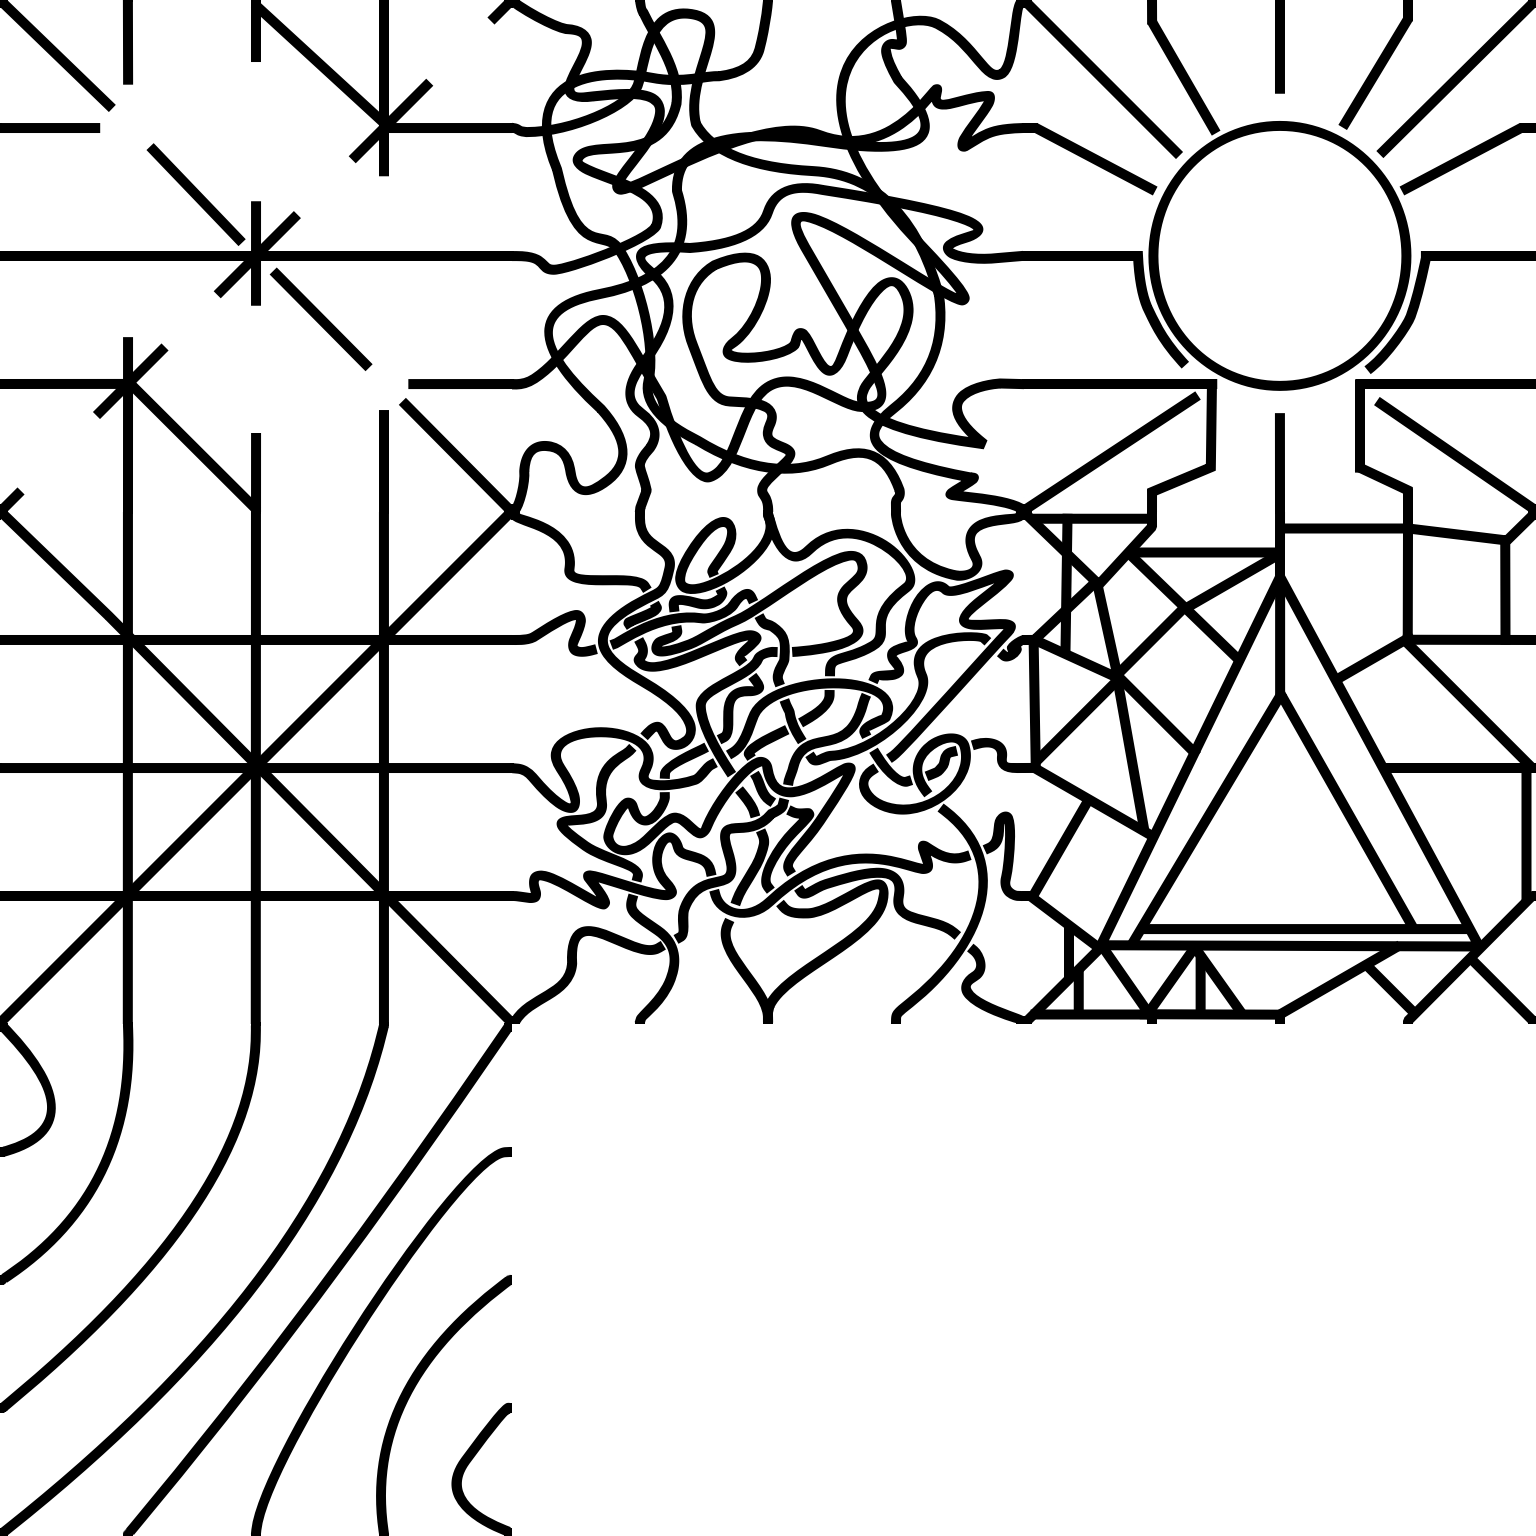
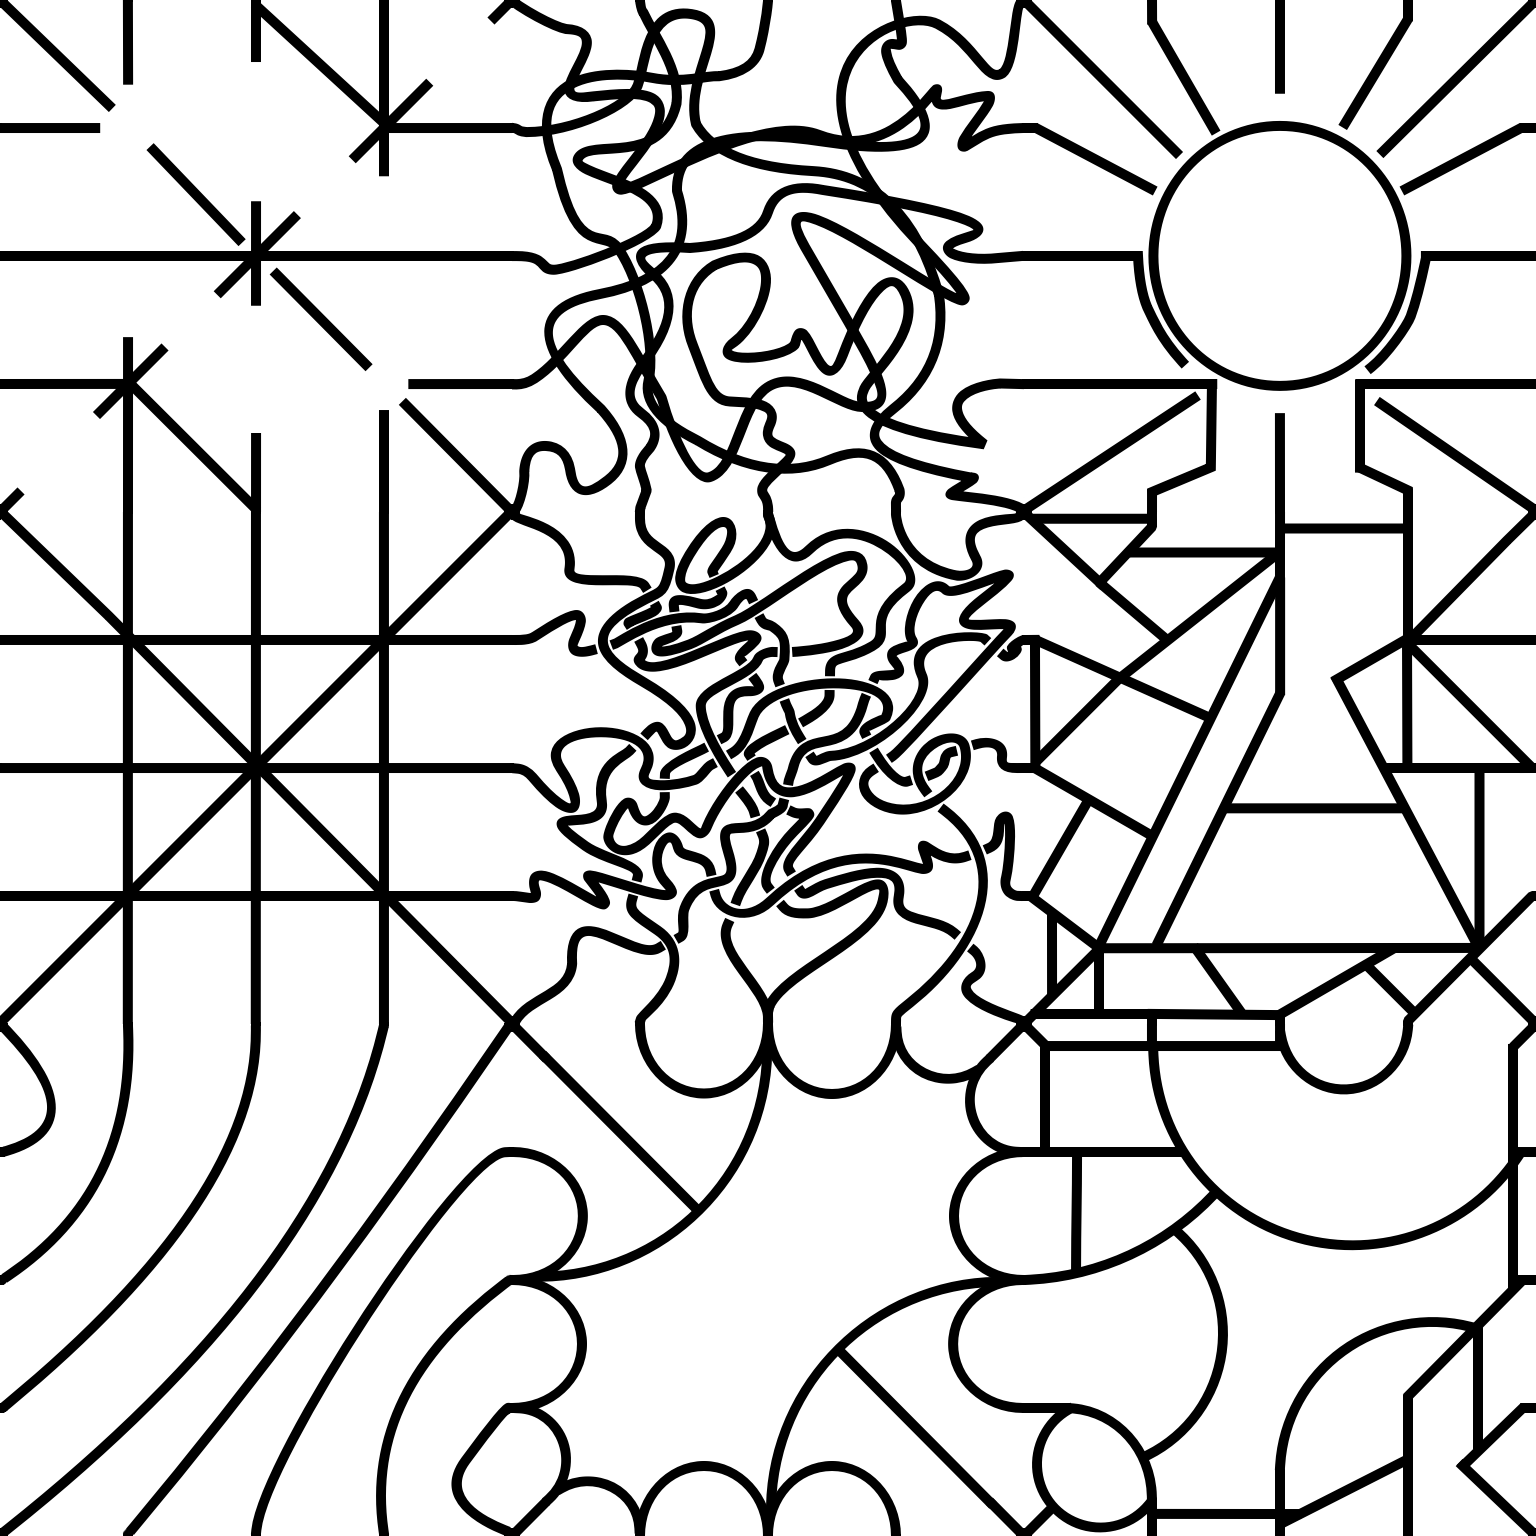
Added prod/dev tileset src switching, title disappearing on click, tiles reload on double click
Introduced dynamic tileset image source selection based on environment, updated tileset and excluded some tiles, added tile reload on double click and remove title after first click.

diff --git a/src/app/app.component.ts b/src/app/app.component.ts
@@ -1,10 +1,10 @@
-import { Component } from '@angular/core';
+import { Component, HostListener } from '@angular/core';
 import { TileComponent } from './tile-component/tile-component.component';
 import { utilConstants, TilePxSize } from './constants/constants.component';
-import { NgFor } from '@angular/common';
+import { NgFor, NgIf } from '@angular/common';
 @Component({
   selector: 'app-root',
-  imports: [TileComponent, NgFor],
+  imports: [TileComponent, NgFor, NgIf],
   templateUrl: './app.component.html',
   styleUrl: './app.component.scss',
 })
@@ -15,7 +15,7 @@ export class AppComponent {
   util = new utilConstants()
   tileGen:number[] = []
   constructor(){
-    this.tileGen = this.constructTiles()
+    this.constructTiles()
   }
   getTileHeight():number{
     return Math.floor(this.util.getScreenSizePercentage(100, false)/this.adjustedPxSize)+1;
@@ -25,11 +25,36 @@ export class AppComponent {
     return Math.floor(this.util.getScreenSizePercentage(100)/this.adjustedPxSize)+1;
   }
 
-  constructTiles():Array<number>{
+  constructTiles(){
     let newTiles:Array<number> = []
     for (let i = 0; i < this.getTileHeight()*this.getTileWidth(); i++) {
         newTiles.push(0)      
     }
-    return newTiles;
+    this.tileGen = newTiles;
+  }
+
+  titleDisplayed = true
+  lastClicked:number = -1
+  doubleClickTime = 500
+  showingTiles = true
+  @HostListener('document:mousedown', ['$event'])
+  handleClickEvent(e: Event) {
+    e.preventDefault();
+    if(this.titleDisplayed){
+      this.titleDisplayed = false;
+      return;
+    }
+    if(this.lastClicked + this.doubleClickTime > Date.now()){
+      this.constructTiles();
+      this.reloadTiles();
+      this.lastClicked = -1
+    } else {
+      this.lastClicked = Date.now();
+    }
+  }
+
+  reloadTiles(){
+    this.showingTiles = false
+    setTimeout(() => {this.showingTiles = true})
   }
 }

diff --git a/src/app/constants/constants.component.ts b/src/app/constants/constants.component.ts
@@ -1,18 +1,19 @@
 import { DOCUMENT } from '@angular/common';
 import { inject } from '@angular/core';
 
+export const TilesetSrc = process.env['NODE_ENV']==="production" ? "/TilesetViewer/DoodleTilemap.png" : "/DoodleTilemap.png"
 export const TilePxSize = 512;
 export const TilesetRows = 3;
 export const TilesetCols = 3;
 export const TilesetPxWidth = TilePxSize * TilesetRows;
 export const TilesetPxHeight = TilePxSize * TilesetCols;
-export const TilesetOptions = [...Array(7).keys()]; //From 0-(N-1)
+export const TilesetOptions = [...Array(9).keys()]; //From 0-(N-1)
 const directions = ["", "right", "back", "left"]
 
 export class utilConstants {
   private readonly document = inject(DOCUMENT);
   private readonly window = this.document.defaultView;
-  private ExcludedTiles:number[] = []
+  private ExcludedTiles:number[] = [1,4]
   isMobile(): boolean {
     return /Android|webOS|iPhone|iPad|iPod|BlackBerry|IEMobile|Opera Mini/i.test(
       navigator.userAgent

diff --git a/src/app/tile-component/tile-component.component.ts b/src/app/tile-component/tile-component.component.ts
@@ -1,5 +1,5 @@
 import { Component, Input } from '@angular/core';
-import { TilesetRows, TilePxSize, TilesetPxHeight, TilesetPxWidth, TilesetOptions, utilConstants } from '../constants/constants.component';
+import { TilesetSrc, TilesetRows, TilePxSize, TilesetPxHeight, TilesetPxWidth, TilesetOptions, utilConstants } from '../constants/constants.component';
 @Component({
   selector: 'tile-component',
   imports: [],
@@ -8,9 +8,11 @@ import { TilesetRows, TilePxSize, TilesetPxHeight, TilesetPxWidth, TilesetOption
 })
 export class TileComponent {
   @Input() zoomLevel = 1 //set by app component
+  
   tilePxSize = TilePxSize
   tilesetPxWidth = TilesetPxWidth
   tilesetPxHeight = TilesetPxHeight
+  tilesetSrc = TilesetSrc
   util = new utilConstants();
 
   tileId = this.util.getRandomFromAvailableTiles()
@@ -21,5 +23,6 @@ export class TileComponent {
   direction = this.util.getRandomDirection();
 
   constructor(){
+    console.log(this.tilesetSrc)
   }
 }

diff --git a/src/app/app.component.html b/src/app/app.component.html
@@ -1,9 +1,9 @@
 <main class="main" [style.--tile-size]="adjustedPxSize+'px'">
-  <div class="content">
-    <div id="title">
+   <div id="title" [style.opacity]="titleDisplayed ? 100 : 0 + '%'">
       <h1>Tileset Viewer</h1>
     </div>
-    <div class="tilesHolder">
+    <div class="content">
+    <div class="tilesHolder" *ngIf="showingTiles">
      <tile-component *ngFor="let tile of tileGen;" [zoomLevel]="zoomLevel" />
     </div>
   </div>

diff --git a/src/app/app.component.scss b/src/app/app.component.scss
@@ -13,6 +13,7 @@
 }
 
 .tilesHolder{
+    z-index: -1;
     position: fixed;
     display: flex;
     flex-direction: row;
@@ -34,6 +35,7 @@
     background-color: var(--modal-background-color);
     border: 8px solid var(--modal-border-color);
     border-radius: 100px;
+    transition: opacity 3s;
       
     h1{
         position: relative;

diff --git a/src/app/tile-component/tile-component.component.html b/src/app/tile-component/tile-component.component.html
@@ -5,7 +5,7 @@
 >
   <img
     class="tile"
-    src="/TilesetViewer/DoodleTilemap.png"
+    src="{{tilesetSrc}}"
     [style.left]="startPxX * zoomLevel + 'px'"
     [style.top]="startPxY * zoomLevel + 'px'"
     [style.width]="tilesetPxWidth * zoomLevel + 'px'"
